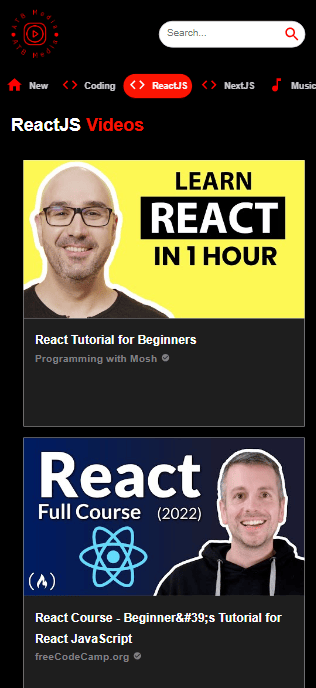
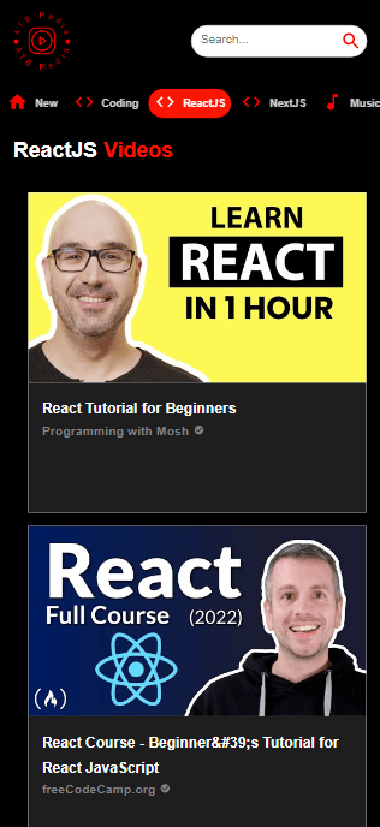
add a download app button

diff --git a/src/components/DownloadBtn.jsx b/src/components/DownloadBtn.jsx
@@ -1,0 +1,46 @@
+import { Download } from "@mui/icons-material";
+import { useEffect, useState } from "react";
+
+const DownloadAppButton = () => {
+    const [deferredPrompt, setDeferredPrompt] = useState(null);
+
+    const handleDownload = () => {
+        if (deferredPrompt) {
+            deferredPrompt.prompt();
+        } else {
+            alert(
+                `To install the app look for "Add to Homescreen" or install in your browser's menu.`
+            );
+        }
+    };
+
+    useEffect(() => {
+        const handleBIP = (e) => {
+            e.preventDefault();
+
+            setDeferredPrompt(e);
+        };
+
+        window.addEventListener("beforeinstallprompt", handleBIP);
+
+        return () => {
+            window.removeEventListener("beforeinstallprompt", handleBIP);
+        };
+    }, []);
+
+    return (
+        <button
+            className="category-btn"
+            onClick={handleDownload}
+            style={{
+                color: "#fff",
+                marginBlock: "1rem"
+            }}
+        >
+            <span style={{ color: "red" }}><Download /></span>
+            <span>Download app</span>
+        </button>
+    );
+};
+
+export default DownloadAppButton;

diff --git a/src/components/Sidebar.jsx b/src/components/Sidebar.jsx
@@ -1,6 +1,7 @@
 import { Stack } from "@mui/material";
 import { useSearchParams } from "react-router-dom";
 import { categories } from "../utils/constants";
+import DownloadAppButton from "./DownloadBtn";
 
 const Sidebar = ({ selectedCategory, setSelectedCategory }) => {
     const [_, setSearchParams] = useSearchParams();
@@ -27,13 +28,19 @@ const Sidebar = ({ selectedCategory, setSelectedCategory }) => {
                     onClick={() => handleClick(category)}
                     style={{
                         background: category.name === selectedCategory && "#fc1503",
-                        color: "#fff"
+                        color: "#fff",
                     }}
                 >
                     <span style={{ color: category.name === selectedCategory ? 'white' : "red" }}>{category.icon}</span>
                     <span style={{ opacity: category.name === selectedCategory ? '1' : '0.8' }}>{category.name}</span>
                 </button>
             ))}
+
+            <div className="download-btn">
+                <hr />
+
+                <DownloadAppButton />
+            </div>
         </Stack>
     )
 }

diff --git a/src/index.css b/src/index.css
@@ -92,6 +92,18 @@ a {
   align-items: center;
 }
 
+.MuiInputLabel-root {
+  color: #fff !important;
+}
+
+.MuiInputLabel-root {
+  color: #d32f2f !important;
+}
+
+.MuiInput-root {
+  color: #fff !important;
+}
+
 @media screen and (min-width: 1250px) {
   .react-player {
     height: 550px !important;
@@ -166,14 +178,8 @@ a {
   }
 }
 
-.MuiInputLabel-root {
-  color: #fff !important;
-}
-
-.MuiInputLabel-root {
-  color: #d32f2f !important;
-}
-
-.MuiInput-root {
-  color: #fff !important;
+@media (display-mode: standalone) {
+  .download-btn {
+    display: none;
+  }
 }

diff --git a/README.md b/README.md
@@ -39,4 +39,7 @@
     <li>
         <img src="https://github.com/characterMi/characterMi/raw/main/images/technologies/icons8-material-ui.svg" width="46" height="46" alt="MUI" />
     </li>
+    <li>
+        <img src="https://github.com/characterMi/characterMi/raw/main/images/technologies/pwa.png" width="60" height="24" alt="PWA" />
+    </li>
 </ul>
